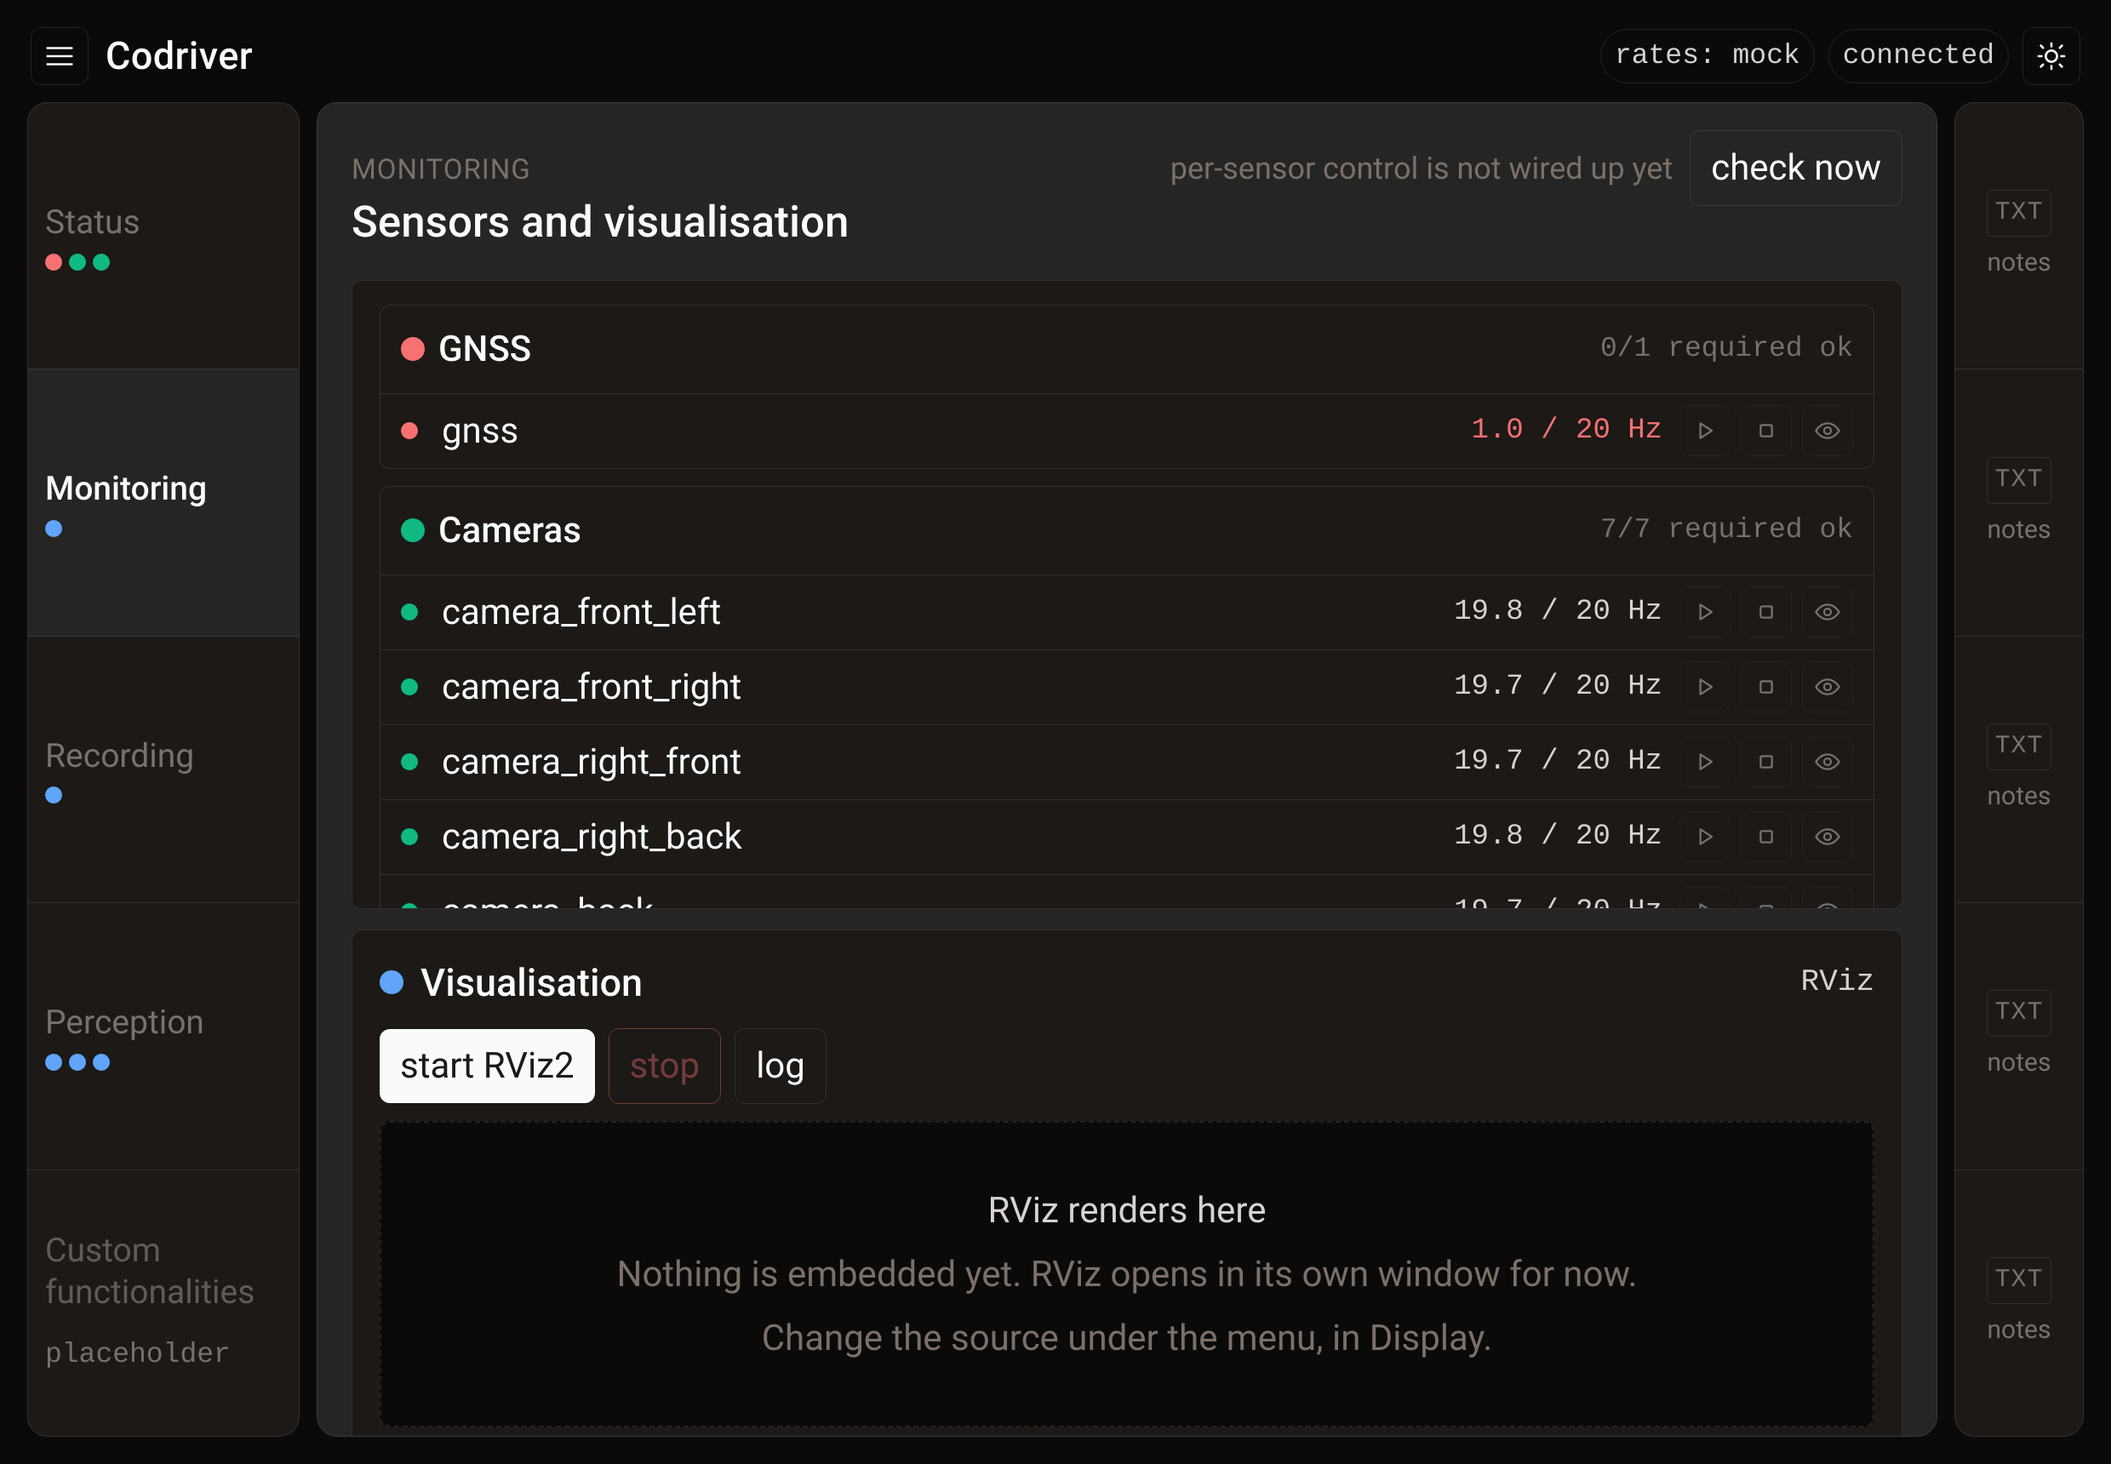
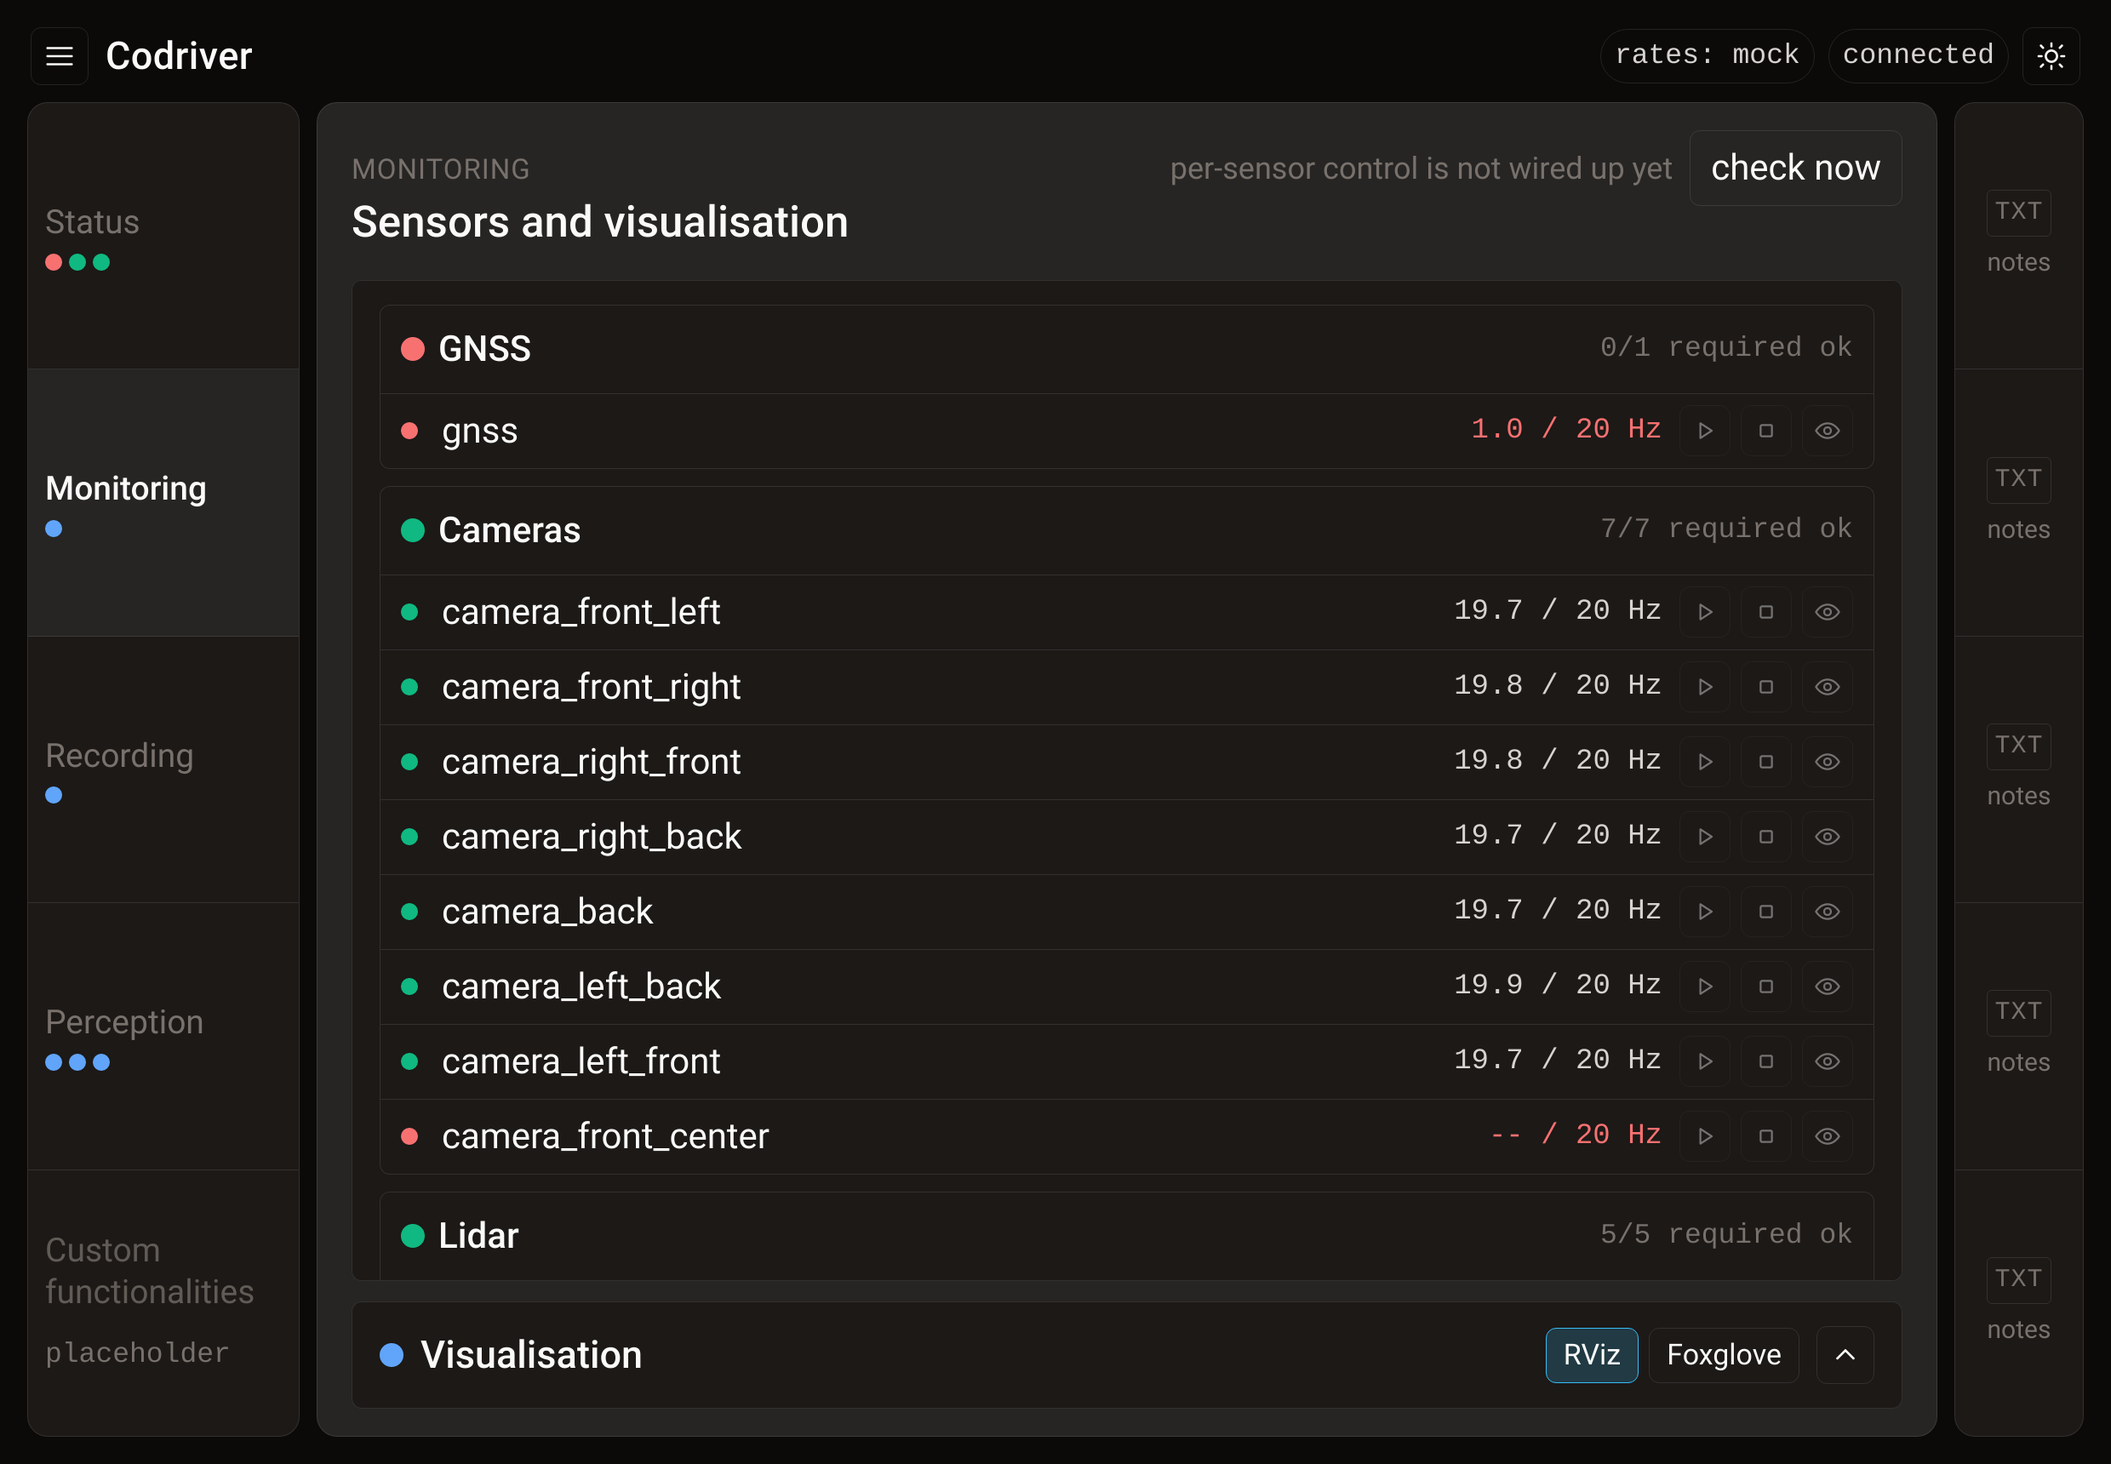
Collapse the visualisation pane, and stop the poll fighting the scrollbar
The 1 s poll replaced the stage's innerHTML every time, which threw away every
scroll position in it. On the longer tabs you would scroll down and be back at
the top before you got there. Two defences:

- an unchanged poll now leaves the DOM completely alone. On the car the rates
  only move when a sweep runs, so most polls do nothing at all.
- when the markup has changed, the scroll positions are captured and put back,
  for the stage and for each panel inside it.

Verified in a browser: scrolled a panel to 300, let four polls go by, still at
300.

Visualisation pane
- collapsed to a bar by default and opens to half the tab on click, the bar
  itself being the click target rather than just the chevron. Remembered per
  browser. It is empty until something is embedded in it, and the sensor list
  is what the tab is for.
- mock-up RViz / Foxglove buttons on the bar, alongside the existing setting in
  the menu. They change what the pane says it will show and nothing else.

Also fixes the monitoring tab's bottom being below the fold: .mon was
height:100% of a box that also holds the stage header. The stage is a flex
column now, so a tab that wants the remaining height gets exactly that.

Roadmap now records why the two visualisers are not equivalent options:
foxglove_bridge is a WebSocket a browser can consume and Studio can be
self-hosted in an iframe, while RViz is a Qt desktop app that would have to be
screen-streamed over noVNC or WebRTC.
[…]

diff --git a/src/codriver/static/index.html b/src/codriver/static/index.html
@@ -153,10 +153,15 @@
   .doc-btn .cap { font-size: 15px; }
 
   /* centre stage */
+  /* A flex column so a tab that wants the remaining height gets exactly that,
+     rather than `height: 100%` of a box the header also lives in - which put
+     the bottom of the monitoring tab below the fold. */
   .stage {
     background: var(--bg-panel); border: 0.5px solid var(--border);
     border-radius: 12px; padding: 16px 20px; overflow-y: auto; min-width: 0;
+    display: flex; flex-direction: column;
   }
+  .stage > .stage-head { flex: none; }
   .stage-head { display: flex; align-items: baseline; justify-content: space-between; gap: 12px; margin-bottom: 14px; }
   .kicker { font-size: 16.5px; color: var(--text-muted); letter-spacing: 0.5px; text-transform: uppercase; }
   .title { font-size: 25.5px; font-weight: 500; }
@@ -343,7 +348,22 @@
 
   /* Monitoring: sensors on top, the visualisation pane filling the bottom
      half. The pane is empty on purpose until RViz or Foxglove is embedded. */
-  .mon { display: grid; grid-template-rows: minmax(0, 1fr) minmax(0, 1fr); gap: 12px; height: 100%; min-height: 620px; }
+  /* Collapsed by default the visualisation pane is just its own header, and
+     the sensors get the whole tab. Opening it splits the height evenly. */
+  .mon {
+    display: grid; grid-template-rows: minmax(0, 1fr) auto; gap: 12px;
+    flex: 1 1 auto; min-height: 320px;
+  }
+  .mon.viz-open { grid-template-rows: minmax(0, 1fr) minmax(0, 1fr); }
+  .viz-panel { overflow: hidden; }
+  .viz-head { gap: 10px; }
+  .viz-head .src-group { display: flex; gap: 6px; margin-left: auto; }
+  .viz-head .src { font-size: 17px; padding: 3px 10px; }
+  .viz-head .src.on { background: var(--on-tint); border-color: var(--accent); color: var(--text-primary); }
+  /* Collapsed, the whole header row is the way back in, so the click target is
+     the bar rather than just the chevron. */
+  .mon:not(.viz-open) .viz-panel { cursor: pointer; }
+  .mon:not(.viz-open) .viz-panel:hover { border-color: var(--accent); }
   /* The panel is a flex column with a bounded height, so without this the
      blocks shrink below their own content and `overflow: hidden` eats the
      sensor rows. Let them keep their height and let the panel scroll. */
@@ -481,6 +501,12 @@ const ui = {
   pending: new Set(),
   modal: null,
   drawer: false,
+  // The markup the stage is currently showing, so an unchanged poll can leave
+  // the DOM (and everything scrolled inside it) alone.
+  lastStage: null,
+  // The visualisation pane starts collapsed: it is empty until something is
+  // embedded in it, and the sensor list is what you came to this tab for.
+  vizOpen: localStorage.getItem("codriver.vizOpen") === "1",
 };
 
 // Preferences that belong to whoever is sitting in front of this screen rather
@@ -510,6 +536,8 @@ const ICON = {
   play: '<path d="M8 5.5v13l10-6.5z"/>',
   stop: '<rect x="7" y="7" width="10" height="10" rx="1.4"/>',
   eye: '<path d="M1.8 12S5.5 5.5 12 5.5 22.2 12 22.2 12 18.5 18.5 12 18.5 1.8 12 1.8 12z"/><circle cx="12" cy="12" r="3"/>',
+  chevronUp: '<path d="M6 14.5 12 8.5l6 6"/>',
+  chevronDown: '<path d="M6 9.5 12 15.5l6-6"/>',
 };
 
 function icon(name) {
@@ -712,15 +740,43 @@ function renderMonitoring() {
   const recording = processByName("recording");
   const blocked = isUp(recording);
   const up = isUp(rviz);
-  const vizControls = rviz ? `
-    <div class="controls">
-      <button class="primary" data-action="start" data-process="rviz"
-              ${up || blocked || busy("rviz") ? "disabled" : ""}>start ${esc(rviz.label)}</button>
-      <button class="danger" data-action="stop" data-process="rviz"
-              ${!up || busy("rviz") ? "disabled" : ""}>stop</button>
-      <button data-action="log" data-process="rviz">log</button>
-    </div>
-    ${blocked ? '<div class="note">Disabled while the recorder is running. The car can record or visualise, not both.</div>' : ""}` : "";
+  const open = ui.vizOpen;
+
+  // Mock-up: switching the source changes what the pane says it will show and
+  // nothing else. Neither is embedded yet.
+  const sourcePicker = ["rviz", "foxglove"].map((v) => `
+    <button class="src ${settings.viz === v ? "on" : ""}" data-action="viz" data-viz="${v}"
+            title="Show ${v === "rviz" ? "RViz" : "Foxglove"} here (mock-up)">
+      ${v === "rviz" ? "RViz" : "Foxglove"}
+    </button>`).join("");
+
+  const head = `
+    <div class="panel-head viz-head">
+      <span class="light big ${esc(rviz ? rviz.state : "unknown")}"></span>
+      <span class="label">Visualisation</span>
+      <span class="src-group">${sourcePicker}</span>
+      <button class="icon-btn viz-chev" data-action="viz-toggle"
+              aria-expanded="${open ? "true" : "false"}"
+              title="${open ? "Collapse the visualisation pane" : "Open the visualisation pane"}"
+              aria-label="${open ? "Collapse" : "Open"} the visualisation pane">
+        ${icon(open ? "chevronDown" : "chevronUp")}
+      </button>
+    </div>`;
+
+  const body = !open ? "" : `
+    ${rviz ? `
+      <div class="controls">
+        <button class="primary" data-action="start" data-process="rviz"
+                ${up || blocked || busy("rviz") ? "disabled" : ""}>start ${esc(rviz.label)}</button>
+        <button class="danger" data-action="stop" data-process="rviz"
+                ${!up || busy("rviz") ? "disabled" : ""}>stop</button>
+        <button data-action="log" data-process="rviz">log</button>
+      </div>
+      ${blocked ? '<div class="note">Disabled while the recorder is running. The car can record or visualise, not both.</div>' : ""}` : ""}
+    <div class="viz-pane">
+      <div class="big">${esc(source)} renders here</div>
+      <div>Nothing is embedded yet. ${esc(source)} opens in its own window for now.</div>
+    </div>`;
 
   return `
     <div class="stage-head">
@@ -735,21 +791,9 @@ function renderMonitoring() {
         </button>
       </div>
     </div>
-    <div class="mon">
+    <div class="mon ${open ? "viz-open" : ""}">
       <div class="panel">${blocks}</div>
-      <div class="panel">
-        <div class="panel-head">
-          <span class="light big ${esc(rviz ? rviz.state : "unknown")}"></span>
-          <span class="label">Visualisation</span>
-          <span class="state">${esc(source)}</span>
-        </div>
-        ${vizControls}
-        <div class="viz-pane">
-          <div class="big">${esc(source)} renders here</div>
-          <div>Nothing is embedded yet. ${esc(source)} opens in its own window for now.</div>
-          <div>Change the source under the menu, in Display.</div>
-        </div>
-      </div>
+      <div class="panel viz-panel">${head}${body}</div>
     </div>`;
 }
 
@@ -932,19 +976,52 @@ function renderCustom(tab) {
     </div>`;
 }
 
-function renderStage() {
-  const stage = document.getElementById("stage");
+function stageHtml() {
   if (!ui.data) {
-    stage.innerHTML = `<div class="empty"><div class="big">Connecting to the panel backend</div></div>`;
-    return;
+    return `<div class="empty"><div class="big">Connecting to the panel backend</div></div>`;
   }
   const tab = ui.data.tabs.find((t) => t.id === ui.tab) || ui.data.tabs[0];
-  if (tab.id === "status") { stage.innerHTML = renderStatus(); return; }
-  if (tab.id === "monitoring") { stage.innerHTML = renderMonitoring(); return; }
-  if (tab.id === "recording") { stage.innerHTML = renderRecording(); return; }
-  if (tab.id === "perception") { stage.innerHTML = renderPerception(); return; }
-  if (tab.id === "custom") { stage.innerHTML = renderCustom(tab); return; }
-  stage.innerHTML = renderPlaceholder(tab);
+  if (tab.id === "status") return renderStatus();
+  if (tab.id === "monitoring") return renderMonitoring();
+  if (tab.id === "recording") return renderRecording();
+  if (tab.id === "perception") return renderPerception();
+  if (tab.id === "custom") return renderCustom(tab);
+  return renderPlaceholder(tab);
+}
+
+// Replacing the stage's innerHTML throws away every scroll position in it, and
+// at one poll a second that made the longer tabs impossible to read: you would
+// scroll down and be back at the top before you got there. Two defences.
+//
+// First, do nothing at all when the markup has not changed. On the car the
+// rates only move when a sweep runs, so most polls are a no-op and the DOM is
+// left completely alone.
+//
+// Second, when it has changed, put the scroll positions back. The stage itself
+// scrolls, and so does each panel inside it; their count and order are stable
+// within a tab, so matching them by position is enough.
+function scrollState(stage) {
+  return {
+    stage: stage.scrollTop,
+    panels: Array.from(stage.querySelectorAll(".panel")).map((p) => p.scrollTop),
+  };
+}
+
+function applyScroll(stage, saved) {
+  stage.scrollTop = saved.stage;
+  Array.from(stage.querySelectorAll(".panel")).forEach((panel, i) => {
+    if (saved.panels[i] !== undefined) panel.scrollTop = saved.panels[i];
+  });
+}
+
+function renderStage() {
+  const stage = document.getElementById("stage");
+  const html = stageHtml();
+  if (html === ui.lastStage) return;
+  const saved = scrollState(stage);
+  stage.innerHTML = html;
+  ui.lastStage = html;
+  applyScroll(stage, saved);
 }
 
 function renderHeader() {
@@ -1092,9 +1169,20 @@ async function withPending(name, fn) {
   }
 }
 
+function setVizOpen(open) {
+  ui.vizOpen = open;
+  localStorage.setItem("codriver.vizOpen", open ? "1" : "0");
+  renderStage();
+}
+
 document.addEventListener("click", (event) => {
   const target = event.target.closest("[data-action]");
-  if (!target) return;
+  if (!target) {
+    // Collapsed, the whole visualisation bar opens the pane, not just the
+    // chevron on the end of it.
+    if (event.target.closest(".mon:not(.viz-open) .viz-panel")) setVizOpen(true);
+    return;
+  }
   const action = target.dataset.action;
 
   if (action === "tab") {
@@ -1133,6 +1221,7 @@ document.addEventListener("click", (event) => {
   if (action === "log") { showLog(target.dataset.process); return; }
   if (action === "doc") { showDocument(target.dataset.tab); return; }
   if (action === "viz") { setSetting("viz", target.dataset.viz); renderDrawer(); renderStage(); return; }
+  if (action === "viz-toggle") { setVizOpen(!ui.vizOpen); return; }
 });
 
 // --- the drawer -------------------------------------------------------------

diff --git a/README.md b/README.md
@@ -111,9 +111,11 @@ buttons say so on hover rather than looking live and doing nothing.
 The lidar operating-mode buttons live here too, under the sensor blocks, along
 with the sweep button. Everything that does something is on this tab.
 
-The lower half is where RViz or Foxglove will be embedded. Until then the
-visualiser opens in its own window, started from the button above the pane.
-Which of the two you get is a setting in the burger menu.
+The visualisation pane at the bottom is **collapsed to a bar by default** and
+opens to half the tab when you click it — the sensor list is what you came here
+for, and the pane is empty until something is embedded in it. The state is
+remembered per browser. The RViz / Foxglove buttons on the bar are a mock-up:
+they change what the pane says it will show and nothing else.
 
 ### Recording
 
@@ -340,9 +342,14 @@ codebases that drive it through the same commands a human can click.
 - [x] a **Monitoring** tab: one control per sensor, the way a container
       dashboard gives you one per service, with a visualisation pane below
 - [ ] wire those per-sensor buttons to real per-sensor start / stop / restart
-- [ ] embedded visualisation — evaluate Foxglove (streaming to a bridge, then
-      subscribing and decoding) against RViz (direct subscription, no
-      intermediate hop) and find out where the latency actually comes from
+- [ ] embedded visualisation. Foxglove is the only one of the two that can
+      actually render inside a browser page: `foxglove_bridge` is a ROS node
+      exposing a WebSocket, and the Studio web build can be self-hosted and put
+      in an iframe. RViz is a Qt desktop application and cannot render into a
+      page at all — showing it in the panel would mean streaming its window over
+      noVNC or WebRTC, which is a heavier and worse-looking hop than the
+      bridge. So: measure the bridge's latency and decide whether it is good
+      enough, rather than treating the two as equivalent options
 - [x] make **Status** strictly non-interactive: the operating-mode and sweep
       buttons moved to Monitoring
 - [ ] put an error terminal along the bottom of Status
@@ -351,7 +358,8 @@ codebases that drive it through the same commands a human can click.
 - [ ] a terminal view
 - [ ] leave room in the architecture for a **Control** tab, for closed-loop
       operation
-- [ ] stop the full re-render every second; update only what changed
+- [x] stop the 1 s re-render fighting you: an unchanged poll now leaves the DOM
+      alone entirely, and a changed one puts every scroll position back
 
 **Language and retrieval**
 

diff --git a/instructions/monitoring.md b/instructions/monitoring.md
@@ -8,10 +8,15 @@ disabled on purpose: the panel can read a sensor's rate, but it has no
 per-sensor driver control yet and nothing to render a single topic into. The
 row is here so the layout is settled before the wiring exists.
 
-The lower half is where RViz or Foxglove will be embedded. Until then the
-visualiser opens in its own window; the start button below the heading is the
-same RViz process the recorder competes with, so it will not start while a
-recording is running.
+The visualisation pane at the bottom is collapsed to a bar. Click the bar, or
+the chevron on it, to open it to half the tab; it stays as you left it.
+
+That is where RViz or Foxglove will be embedded. Until then the visualiser opens
+in its own window; the start button inside the pane is the same RViz process the
+recorder competes with, so it will not start while a recording is running.
+
+The RViz / Foxglove buttons on the bar are a mock-up. They change what the pane
+says it will show and nothing else.
 
 The lidar operating-mode buttons live here too, under the sensor blocks.
 They used to be on Status; Status has no controls at all now.
